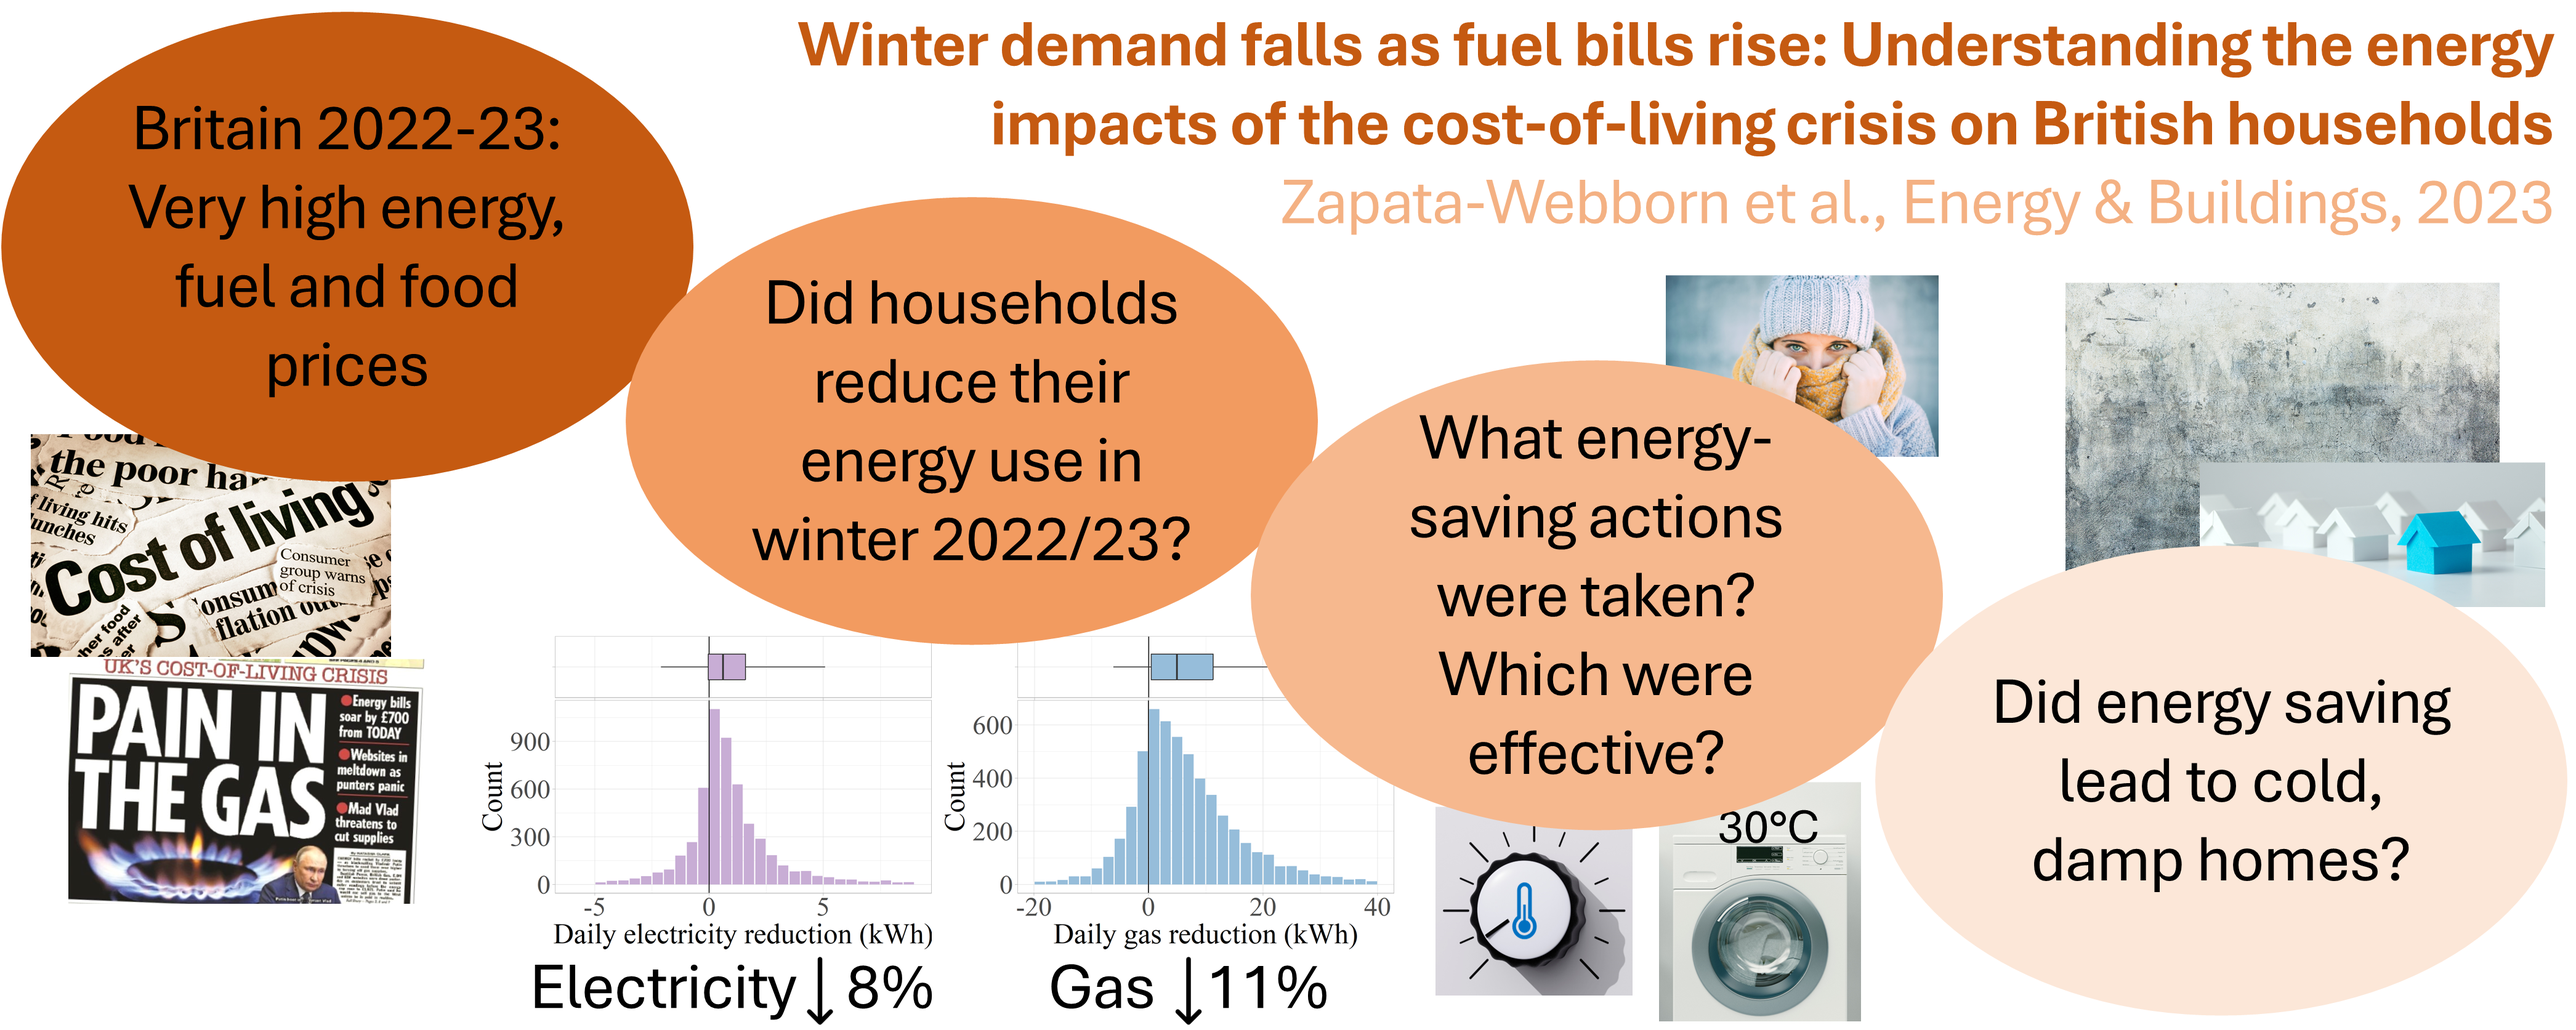
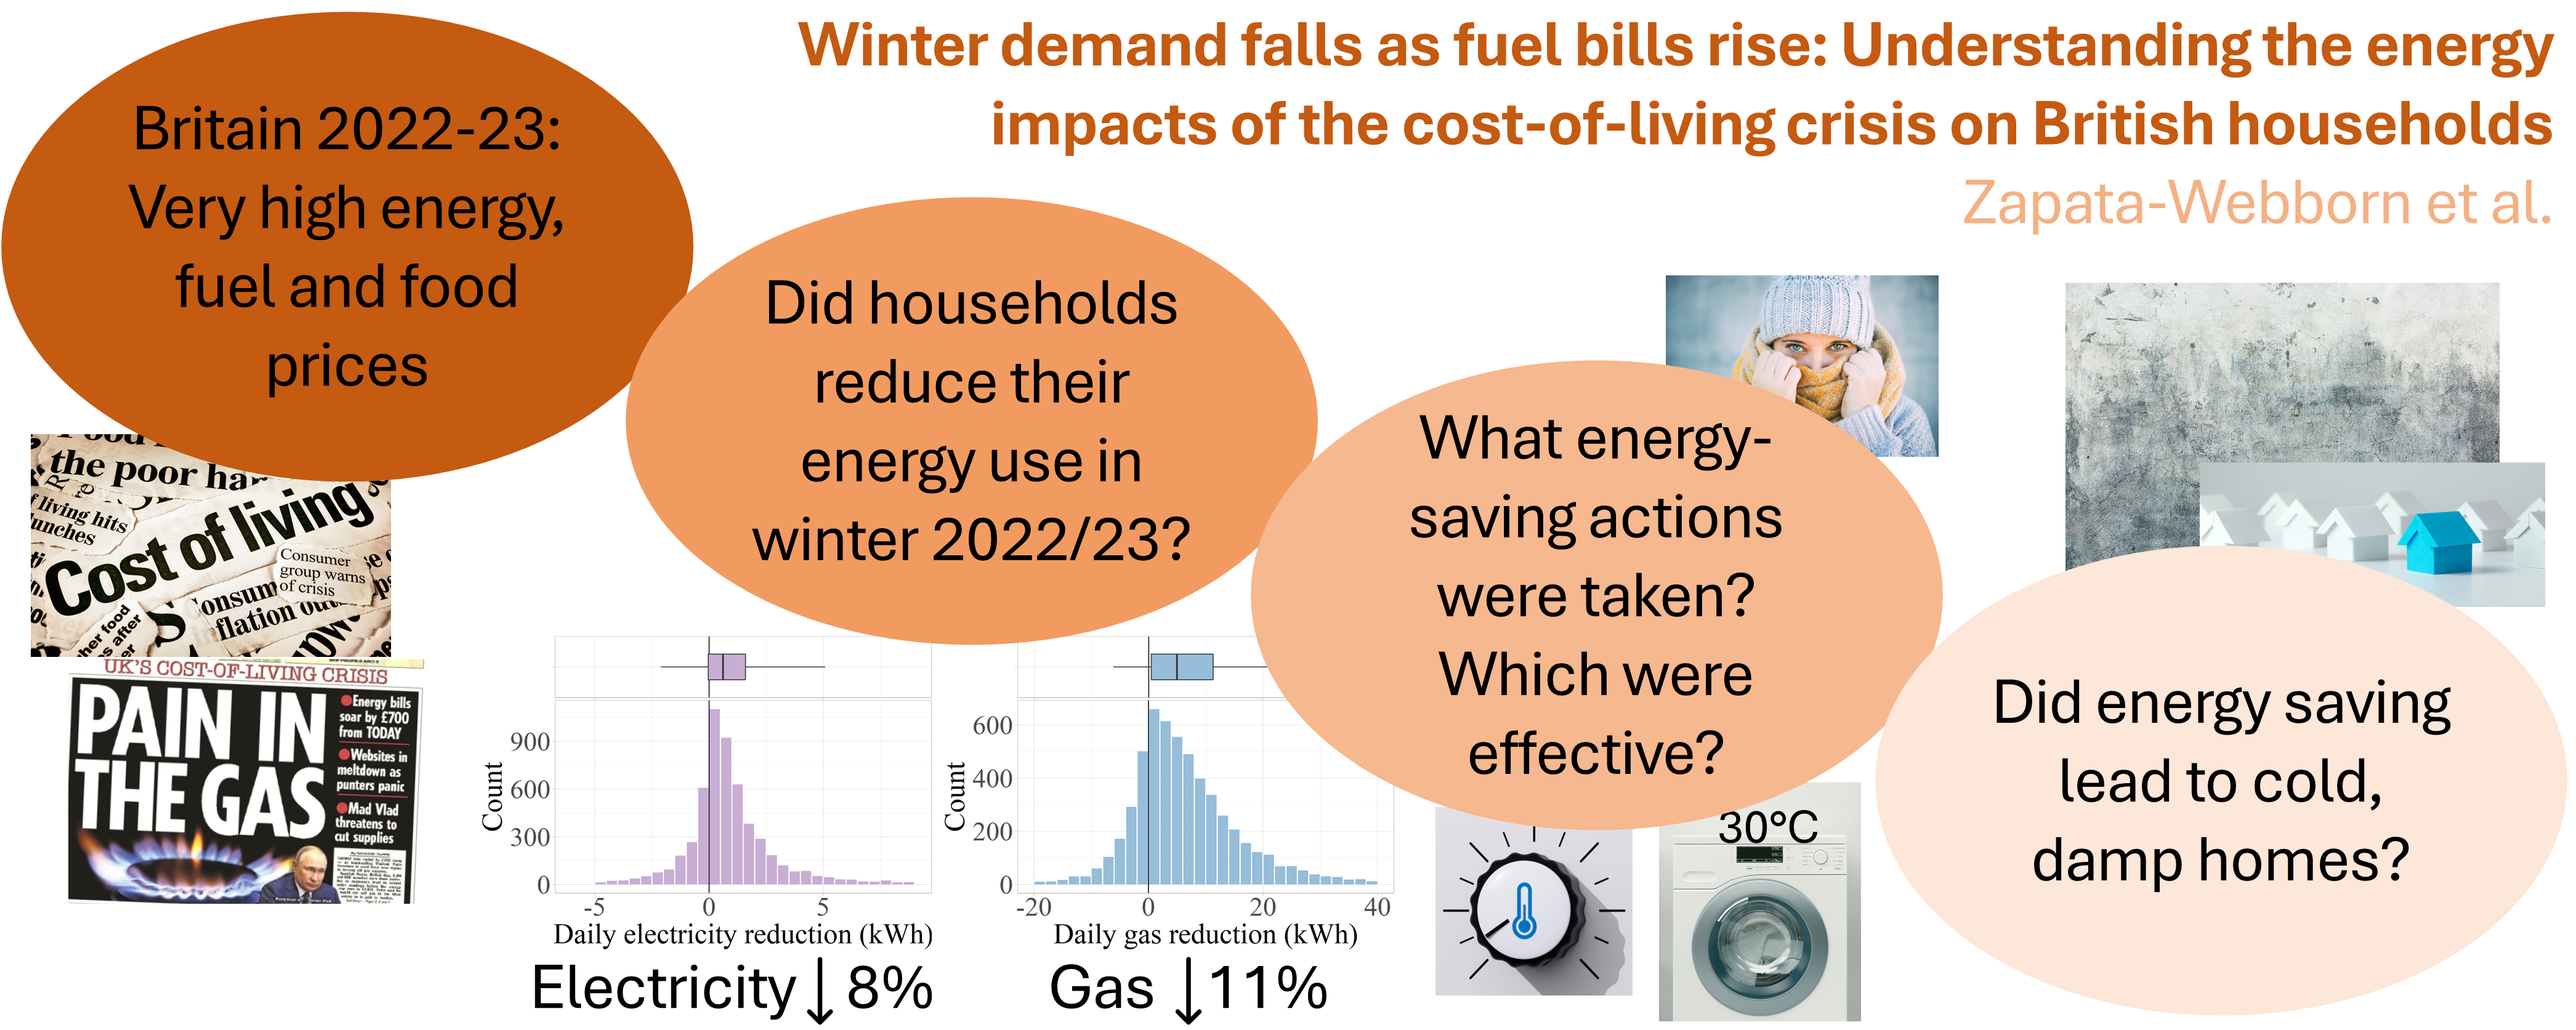
Update with published version/info

Changed region(s): [[0.4973, 0.1554, 0.9945, 0.2487]]

diff --git a/content/publication/2023-12-EZW-Colc-paper/index.md b/content/publication/2023-12-EZW-Colc-paper/index.md
@@ -1,5 +1,5 @@
 ---
-date: "2023-12-19T00:00:00"
+date: "2024-01-04T00:00:00"
 publication_types:
 - "2"
 authors:
@@ -17,18 +17,17 @@ authors:
 - Alex Whittaker
 
 
-publishDate: "TBD"
+publishDate: "4 January 2024"
 
 title: "Winter demand falls as fuel bills rise: Understanding the energy impacts of the cost-of-living crisis on British households"
 
-publication: "TBD"
+publication: "Energy and Buildings"
 
-abstract: "In October 2022 British households entered a heating season amidst exceptionally high energy prices – squeezing household incomes and increasing fuel poverty. This study analyses electricity and gas consumption in 5594 households from October 2022 – March 2023 using XGBoost counterfactual models trained on historic data. With survey data collected in early 2023 we investigate how consumption reduction correlated with energy-saving actions, household and dwelling characteristics, and indicators of underheating and fuel poverty.
+abstract: "In October 2022 British households entered a heating season amidst exceptionally high energy prices – squeezing household incomes and increasing fuel poverty. This study analyses electricity and gas consumption in 5594 households from October 2022 to March 2023 using XGBoost counterfactual models trained on historic data. With survey data collected in early 2023 we investigate how consumption reduction correlated with energy-saving actions, household and dwelling characteristics, and indicators of underheating and fuel poverty.
 
-Our analysis showed that electricity consumption was 8.4% lower and gas consumption 10.8% lower than the previous winter (accounting for weather), saving consumers around £29/month. Despite this and a government subsidy, energy bills were still around £34/month higher than the previous winter (£158/month (median); £500/month (95th percentile)); price elasticity was -0.10 for electricity and -0.07 for gas consumption. Greatest consumption reduction correlated with largest reported changes to heating practices, in particular heating for fewer hours and turning thermostats down lower. We find evidence of greater fuel poverty and underheating among the greatest energy reducers. 
+Our analysis showed that electricity consumption was 8.4% lower and gas consumption 10.8% lower than the previous winter (accounting for weather), saving consumers around £29/month. Despite this and a government subsidy, energy bills were still around £34/month higher than the previous winter (£158/month (median); £500/month (95th percentile)); price elasticity was −0.10 for electricity and −0.07 for gas consumption. Greatest consumption reduction correlated with largest reported changes to heating practices, in particular heating for fewer hours and turning thermostats down lower. We find evidence of greater fuel poverty and underheating among the greatest energy reducers.
 
-This paper presents novel methods for analysing energy saving using smart meter data for changes without a control group, plus novel findings related to short-term price elasticity and the energy-saving impacts of behaviour change.
-"
+This paper presents novel methods for analysing energy saving using smart meter data for changes without a control group, plus novel findings related to short-term price elasticity and the energy-saving impacts of behaviour change."
 
 featured: false
 image: 
@@ -49,9 +48,9 @@ tags:
 slides: 
 summary: 
 links:
-- name: Preprint (currently under review)
-  url: https://osf.io/preprints/osf/83a4t
-url_preprint: 
+- name: Journal article (open access)
+  url: https://www.sciencedirect.com/science/article/pii/S037877882301099X
+url_preprint: https://osf.io/preprints/osf/83a4t
 url_code: "https://github.com/ellenwebborn/Winter-demand-falls-as-fuel-bills-rise"
 url_dataset: ""
 url_pdf: ""
